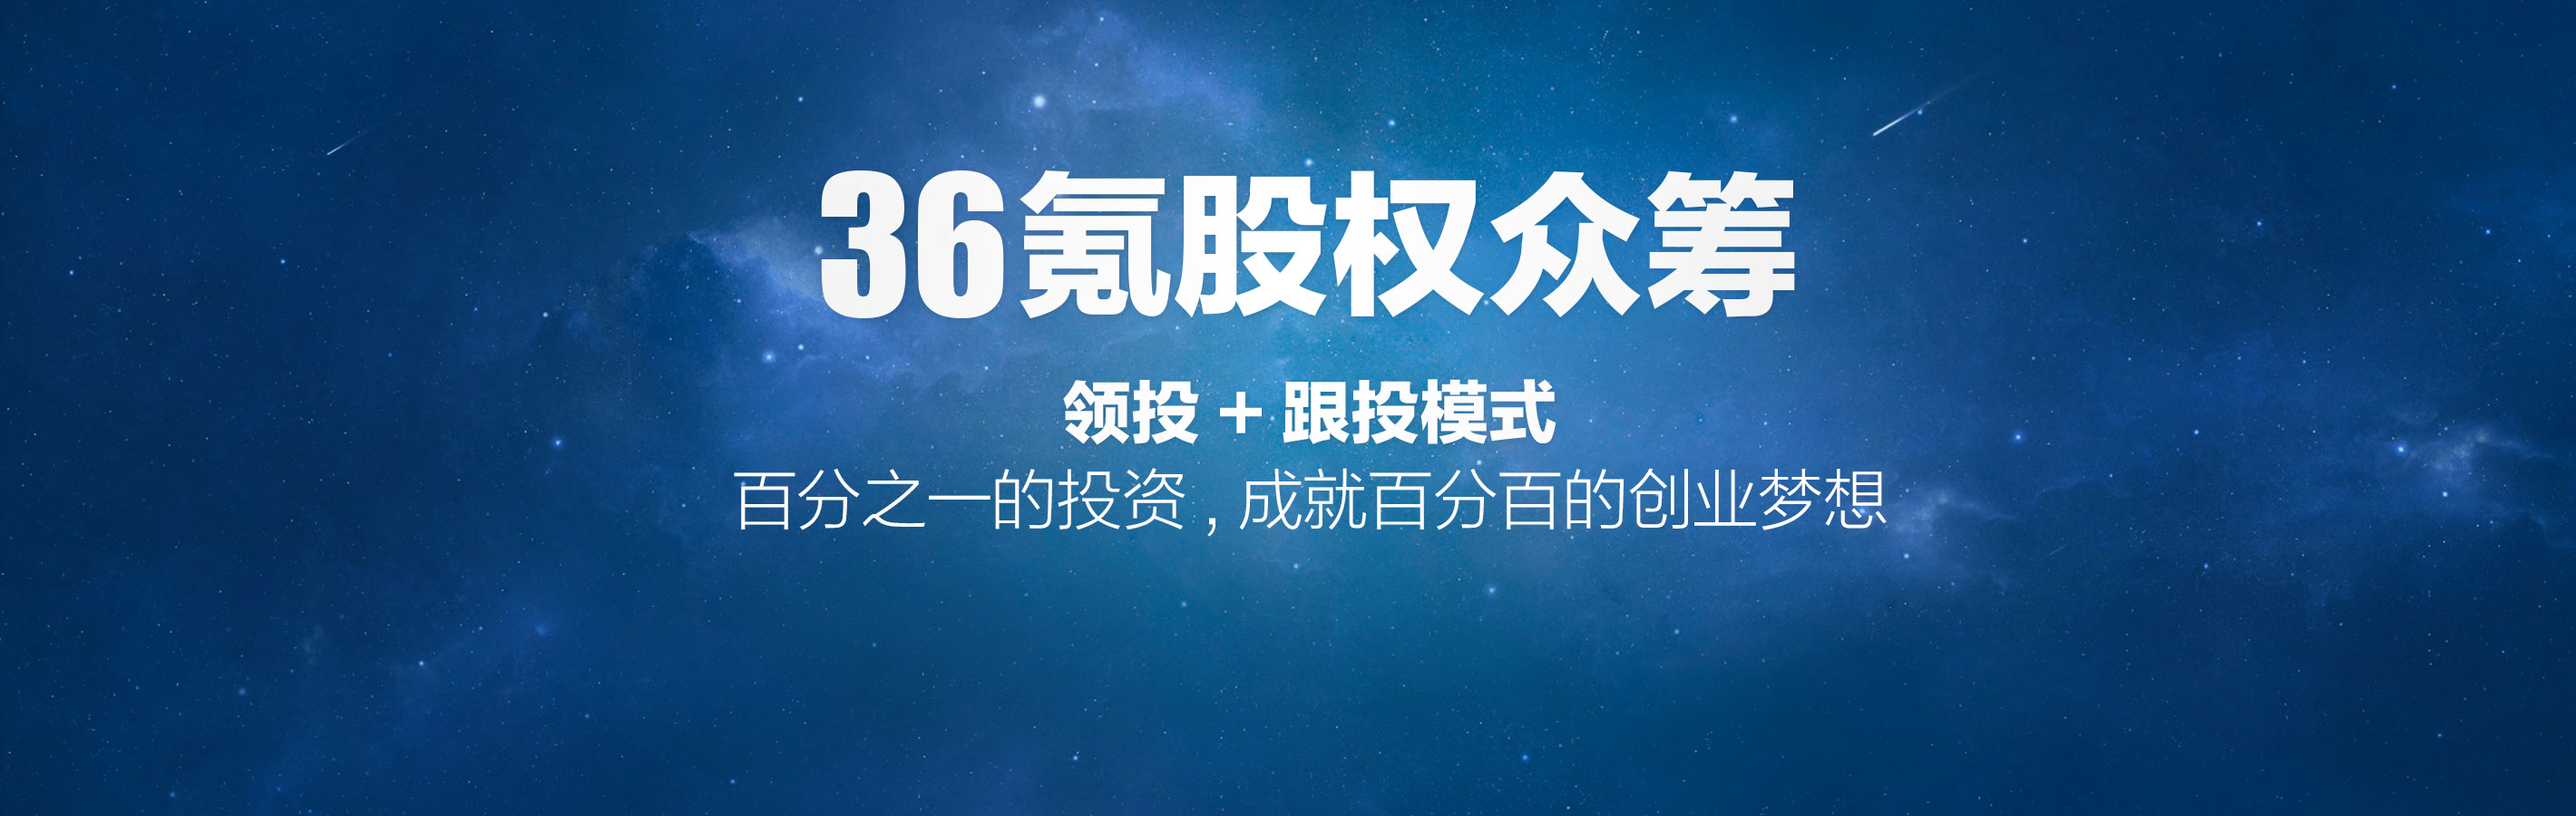
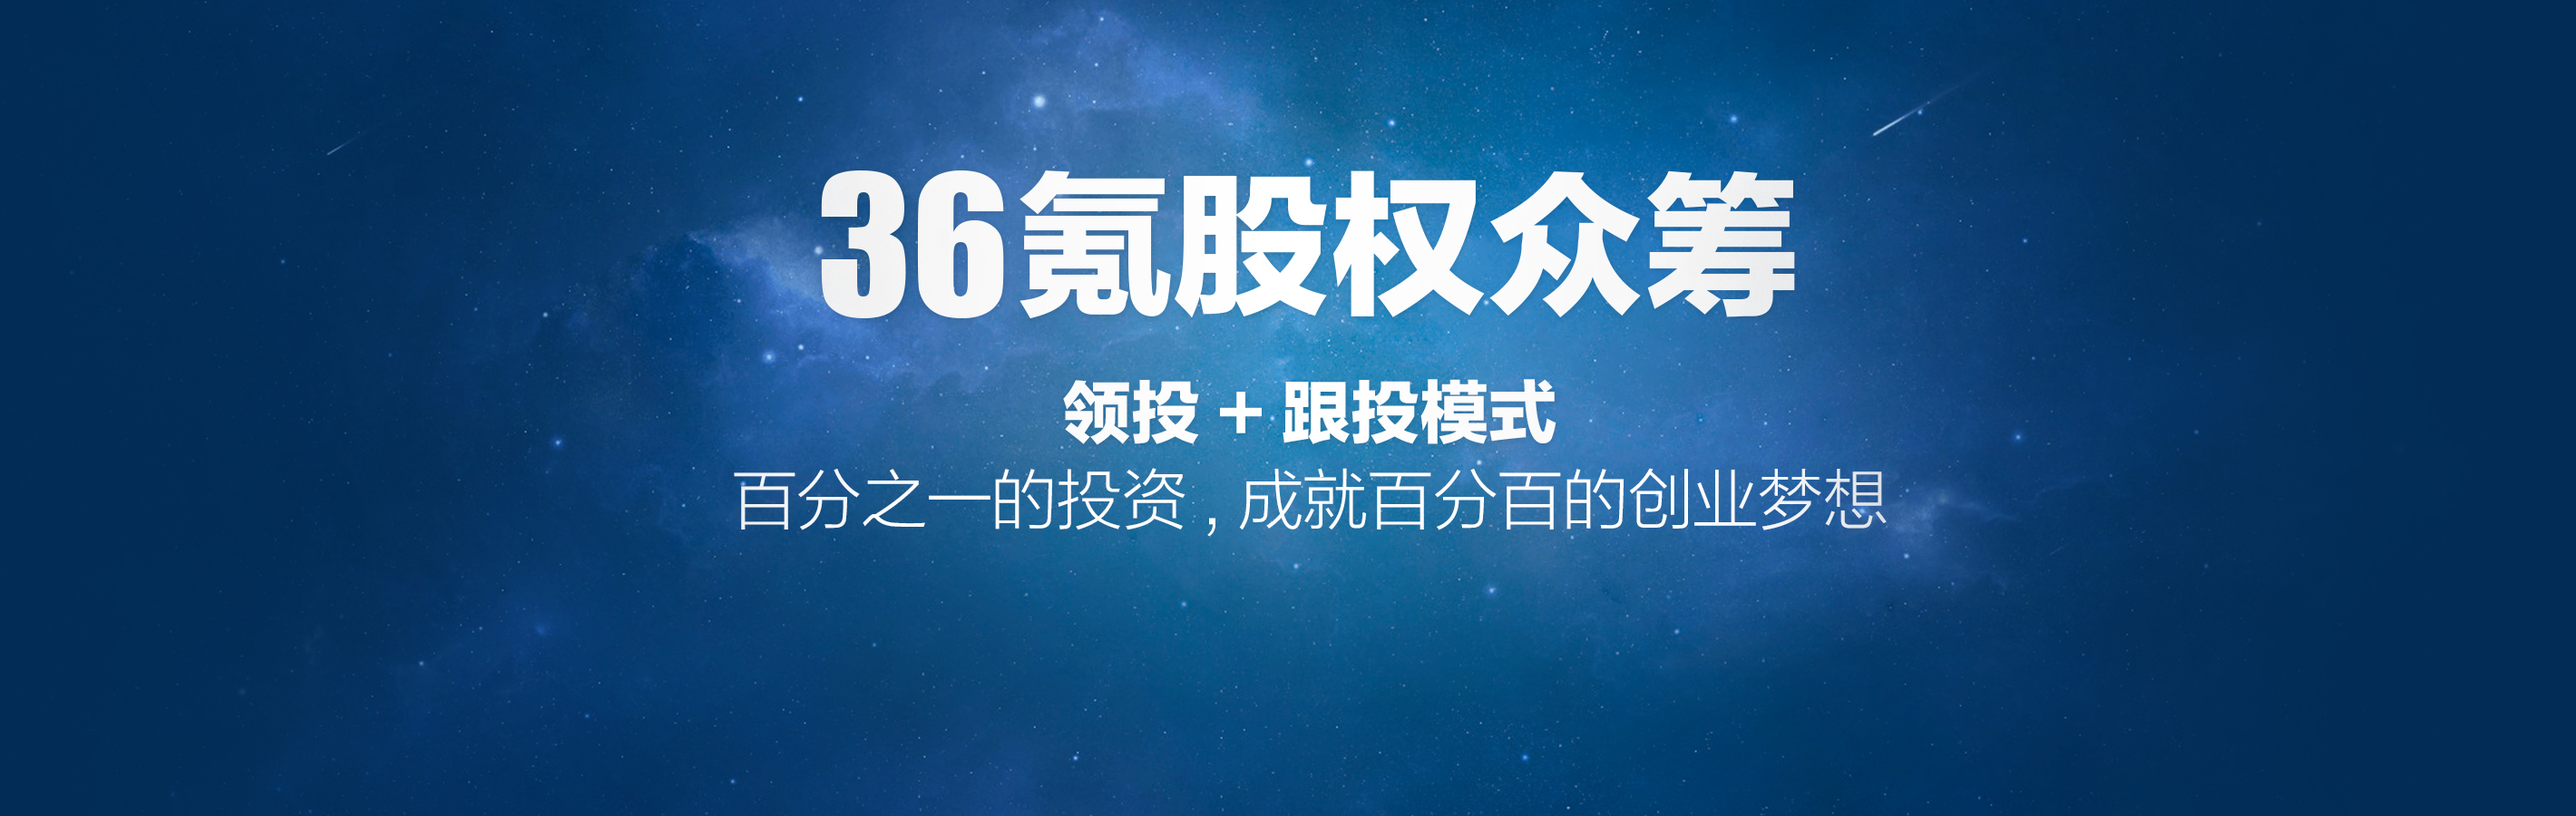
h5 bug fix

Changed region(s): [[0.8056, 0.3422, 0.9915, 0.7467], [0.9296, 0.1867, 1.0, 0.3733], [0.7127, 0.5911, 0.7437, 0.6533]]

diff --git a/src/styles/components/syndicates/index.less b/src/styles/components/syndicates/index.less
@@ -28,6 +28,9 @@
     &.mb-50 {
         margin-bottom: 50px;
     }
+    .ml-10 {
+        margin-left: 10px;
+    }
     &.loadMore {
         width: 100%;
         height: 40px;
@@ -162,6 +165,7 @@
                         color: #FF9900;
                     }
                 }
+
             }
             .actions {
                 margin-top: 15px;
@@ -190,6 +194,30 @@
 
     }
 
+}
+/*跟投人验证弹窗*/
+.pop-validate {
+    height: auto;
+    padding: 20px 64px;
+    background: #fff;
+    text-align: center;
+    .val-tip {
+        display: block;
+        margin: 33px 0 40px;
+        font-size: 15px;
+    }
+    .validate-btn {
+        display: inline-block;
+        background-color: #178fe6;
+        padding: 0;
+        width: 110px;
+        height: 30px;
+        font-size: 15px;
+        color: #fff;
+        text-align: center;
+        line-height: 30px;
+        border-radius: 3px;
+    }
 }
 /*首页轮播图*/
 .c-scale(@x, @y){
@@ -335,18 +363,25 @@
             width: 100%;
             height: 160px;
             .slider-image {
-                background: #0d2849 url("images/syndicates-banner.jpg") no-repeat center;
+                background: #052d54 url("images/syndicates-banner.jpg") no-repeat center;
                 background-size: auto 100%;
                 &.next {
-                    background: #008DF2 url("images/syndicates-banner-1.png") no-repeat center;
+                    background: #008DF2 url("images/syndicates-banner-1.jpg") no-repeat center;
                     background-size: auto 100%;
                     .banner-btn {
-                        background: #4BB6FF;
+                        display: inline-block;
+                        position: absolute;
                         left: 50%;
-                        margin-left: 180px;
-                        box-shadow: 0 4px 0px #005EE9;
-                        font-weight: 600;
-                        font-size: 22px;
+                        margin-left: 40px;
+                        bottom: 15px;
+                        width: 110px;
+                        height: 30px;
+                        line-height: 30px;
+                        text-align: center;
+                        background-color: #4BB6FF;
+                        color: #fff;
+                        font-size: 14px;
+                        border-radius: 3px;
                         &:hover {
                             background-color: #4BB6FF * 0.95;
                         }
@@ -367,22 +402,21 @@
             background-image: url(images/home-slider-01.png);
             background-size: cover;
             .banner-btn {
-                @btn-color: #F4A100;
                 display: inline-block;
                 position: absolute;
                 left: 50%;
-                margin-left: -95px;
-                bottom: 70px;
-                width: 190px;
-                height: 50px;
-                line-height: 50px;
+                margin-left: -55px;
+                bottom: 15px;
+                width: 110px;
+                height: 30px;
+                line-height: 30px;
                 text-align: center;
-                background-color: @btn-color;
+                background-color: #f4a100;
                 color: #fff;
-                font-size: 20px;
+                font-size: 14px;
                 border-radius: 3px;
                 &:hover {
-                    background-color: @btn-color * 0.95;
+                    background-color: #f4a100 * 0.95;
                 }
             }
             img {

diff --git a/src/scripts/controllers/syndicatesController.js b/src/scripts/controllers/syndicatesController.js
@@ -129,5 +129,69 @@ angular.module('defaultApp.controller').controller('syndicatesController',
             }
 
         }
+        /*已登录且已完善资料用户才能查看众筹详情*/
+        $scope.UID && UserService.isProfileValid(function(data){
+            if(data){
+                /*获取用户是否为跟投人*/
+                UserService.getIdentity(function(data){
+                    if(data){
+                        $scope.isCoInvestor = data.coInvestor ? true : false;
+                    }else{
+                        $scope.isCoInvestor = false;
+                        //ErrorService.alert({msg:"获取用户角色失败"});
+                    }
+                });
+            }
+        });
+        /*大图banner按钮点击事件*/
+        $scope.gotoInvest = function(){
+            /*判断用户是否为跟投人*/
+            if($scope.isCoInvestor){
+                var ele = $(".syndicates-index:eq(0)");
+                console.log(ele);
+                $('html,body').stop().animate({scrollTop: ele.offset().top-ele.height()*0.2},400, function(){
+                    console.log("Scroll");
+                });
+            }else{
+                $modal.open({
+                    templateUrl: 'templates/company/pop-investor-validate.html',
+                    windowClass: 'krCode-modal-window',
+                    controller: [
+                        '$scope', '$modalInstance','scope','UserService','CrowdFundingService',
+                        function ($scope, $modalInstance, scope,UserService,CrowdFundingService) {
+                            UserService.getPhone(function(data){
+                                if(!data)return;
+                                $scope.phone = data.slice(0,3)+"****"+data.slice(data.length-4,data.length);
+                            });
+                            $scope.ok = function(){
+                                CrowdFundingService.save({
+                                    model:"crowd-funding",
+                                    id:fundingId,
+                                    submodel:"opening-remind"
+                                },{
+
+                                },function(data){
+                                    notify({
+                                        message:"设置成功",
+                                        classes:'alert-success'
+                                    });
+                                    $modalInstance.dismiss();
+                                },function(err){
+                                    ErrorService.alert(err);
+                                });
+                            }
+                            $scope.cancel = function() {
+                                $modalInstance.dismiss();
+                            }
+                        }
+                    ],
+                    resolve: {
+                        scope: function(){
+                            return $scope;
+                        }
+                    }
+                });
+            }
+        }
     });
 

diff --git a/src/templates/syndicates/index.html b/src/templates/syndicates/index.html
@@ -1,22 +1,24 @@
-<!--<div class="home-wrap">
+<div class="home-wrap">
     <div class="slider-container">
         <div class="top-slide-arrow syndicates">
-            <a href="javascript:void(0)" class="top-slide-arrow-left"></a>
-            <a href="javascript:void(0)" class="top-slide-arrow-right"></a>
+            <!--<a href="javascript:void(0)" class="top-slide-arrow-left"></a>
+            <a href="javascript:void(0)" class="top-slide-arrow-right"></a>-->
         </div>
-        <slick infinite=true autoplay=true pauseOnHover=false speed=1000 prev-arrow=".top-slide-arrow-left"
+        <slick infinite=true autoplay=false pauseOnHover=false speed=1000 prev-arrow=".top-slide-arrow-left"
                next-arrow=".top-slide-arrow-right">
             <div class="slider syndicates">
                 <div class="slider-image">
+                    <a href="" class="banner-btn" ng-click="gotoInvest()">我要投资</a>
                 </div>
             </div>
             <div class="slider syndicates">
                 <div class="slider-image next">
+                    <a href="http://help.test.36kr.com/q-m-zc.html" class="banner-btn">查看详情</a>
                 </div>
             </div>
         </slick>
     </div>
-</div>-->
+</div>
 <div class="container">
     <div class="syndicates-index" ng-repeat="item in investorList track by $index" ng-class="{'mt-30': $index == 0,'mb-50': $index == investorList.length-1 && noMore}">
 
@@ -55,8 +57,9 @@
                 </loading-bar>
 
                 <div class="goal">
-                    <span>已筹集{{item.cf_success_raising | unitConversion}}</span>
-                    <span class="goal-num">众筹目标<b class="currency">{{item.cf_raising | unitConversion}}</b></span>
+                    已筹集<span class="ml-10">{{item.cf_success_raising | unitConversion}}</span>
+                    <span class="goal-num">众筹目标<b class="currency ml-10">{{item.cf_raising | unitConversion}}</b>
+                    </span>
                 </div>
                 <div class="actions clearfix">
                     <a ui-sref="syndicatesDetail({companyId:item.company.id,fundingId:item.id,status:item.name})" class="btn btn-default" ng-if="item.color != '60'">查看详情</a>

diff --git a/src/scripts/filters/InvestorLink.js b/src/scripts/filters/InvestorLink.js
@@ -6,6 +6,7 @@ var angular = require('angular');
 
 angular.module('defaultApp.filter').filter('investorLink', function () {
     return function (input,idKey,typeKey) {
+        console.log(input);
         var userLink = 'user_detail({id:"{{id}}"})';
         var companyLink = 'company_detail({id:"{{id}}"})';
         var orgLink = 'organization_detail({id:"{{id}}"})';
@@ -22,7 +23,11 @@ angular.module('defaultApp.filter').filter('investorLink', function () {
                 "3":companyLink
             };
         }
-
-        return input[typeKey]?types[input[typeKey]].replace('{{id}}',input[idKey]):"index";
+        /*机构页未完成，当投资主体为机构时，链接置空*/
+        if(input[typeKey] == "ORGANIZATION"){
+            return "";
+        }else {
+            return input[typeKey]?types[input[typeKey]].replace('{{id}}',input[idKey]):"index";
+        }
     };
 });

diff --git a/src/templates/syndicates/detail.html b/src/templates/syndicates/detail.html
@@ -31,9 +31,8 @@
                     <loading-bar percent="syndicatesInfo.base.percent" loading-tip="syndicatesInfo.base.cf_success_raising" ng-show="syndicatesInfo.base.cf_raising">
                     </loading-bar>
                     <p class="clearfix mt-15">
-                        <span>已筹集{{syndicatesInfo.base.cf_success_raising | unitConversion}}</span>
-                        <span class="fl-right">融资目标
-                            <span class="c-orange">{{syndicatesInfo.base.cf_raising | unitConversion}}</span>
+                        已筹集<span class="ml-10">{{syndicatesInfo.base.cf_success_raising | unitConversion}}</span>
+                        <span class="fl-right">融资目标<span class="c-orange ml-10">{{syndicatesInfo.base.cf_raising | unitConversion}}</span>
                         </span>
                     </p>
                 </div>

diff --git a/src/scripts/controllers/UserDetailController.js b/src/scripts/controllers/UserDetailController.js
@@ -5,8 +5,8 @@
 var angular = require('angular');
 
 angular.module('defaultApp.controller').controller('UserDetailController', [
-    '$scope', '$location', '$stateParams', '$state', 'UserService',
-    function($scope, $location, $stateParams, $state, UserService) {
+    '$scope', '$location', '$stateParams', '$state', 'UserService','$timeout',
+    function($scope, $location, $stateParams, $state, UserService,$timeout) {
         $timeout(function(){
             window.scroll(0,0);
         },0);

diff --git a/src/templates/company/pop-investor-validate.html b/src/templates/company/pop-investor-validate.html
@@ -1,0 +1,5 @@
+<div class="pop-validate">
+    <span class="val-tip">你还未进行跟投人认证，只有认证通过后才可以进行投资</span>
+    <a ui-sref="investorValidate" class="validate-btn">认证跟投人</a>
+</div>
+

diff --git a/src/styles/components/syndicates/detail.less b/src/styles/components/syndicates/detail.less
@@ -12,6 +12,9 @@
     .mb-20 {
         margin-bottom: 20px;
     }
+    .ml-10 {
+        margin-left: 10px;
+    }
     .detail-desc {
         padding: 20px;
         background-color: #fff;

diff --git a/src/scripts/default.js b/src/scripts/default.js
@@ -38,6 +38,7 @@ var depModules = [
     'monospaced.qrcode',
     'angularFileUpload',
     'cgNotify',
+    'slick',
     'highcharts-ng'
 ];
 
